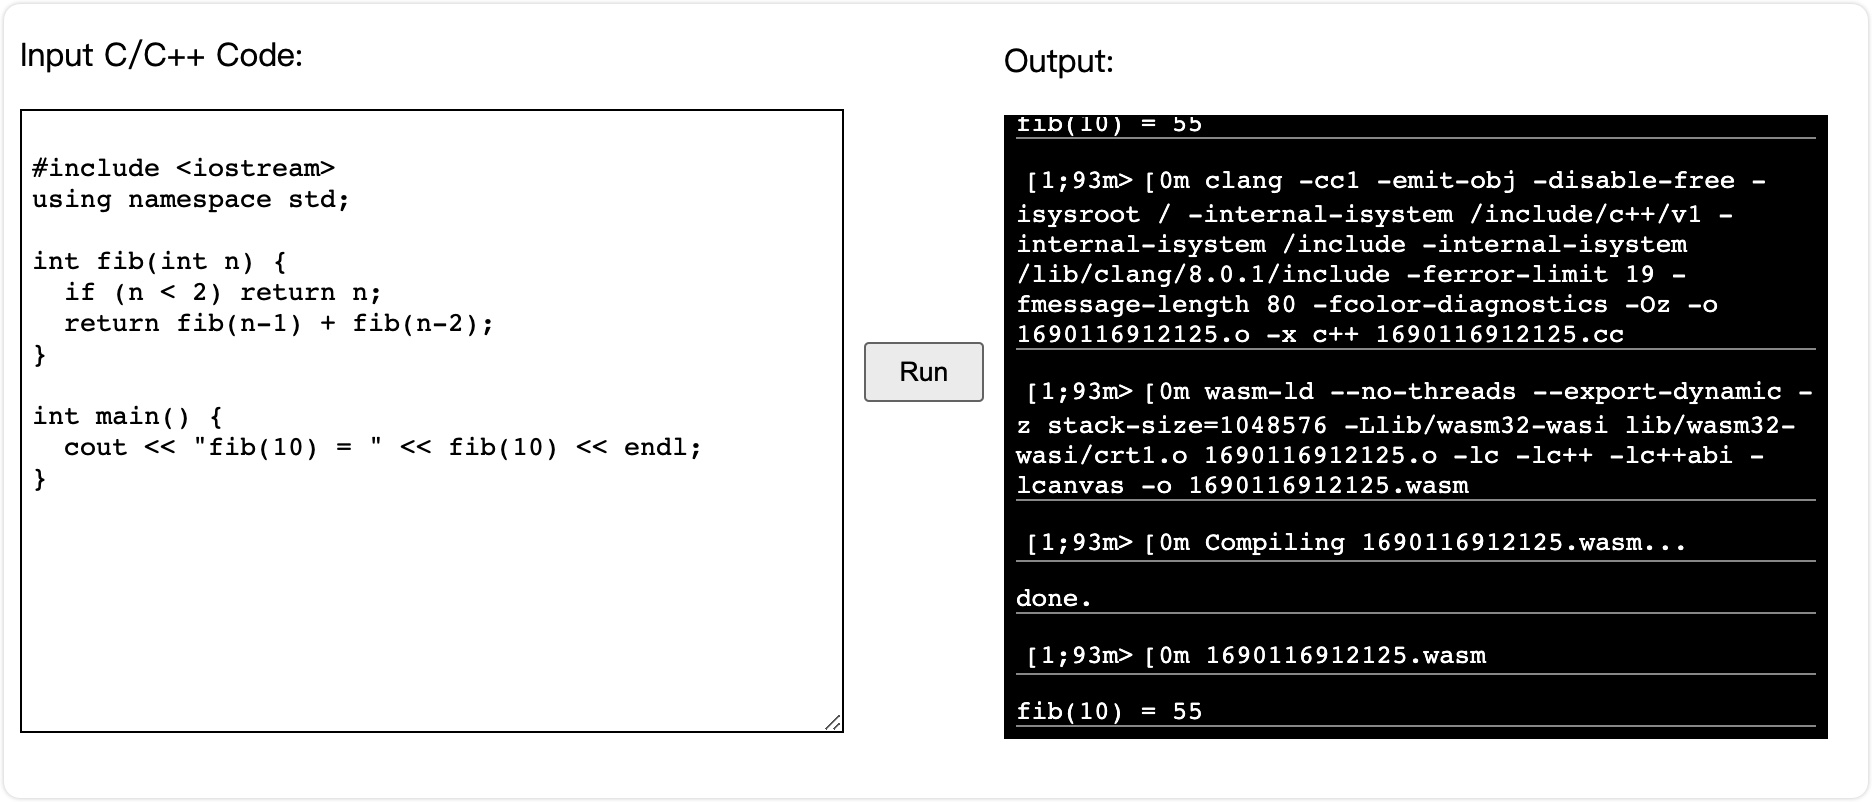
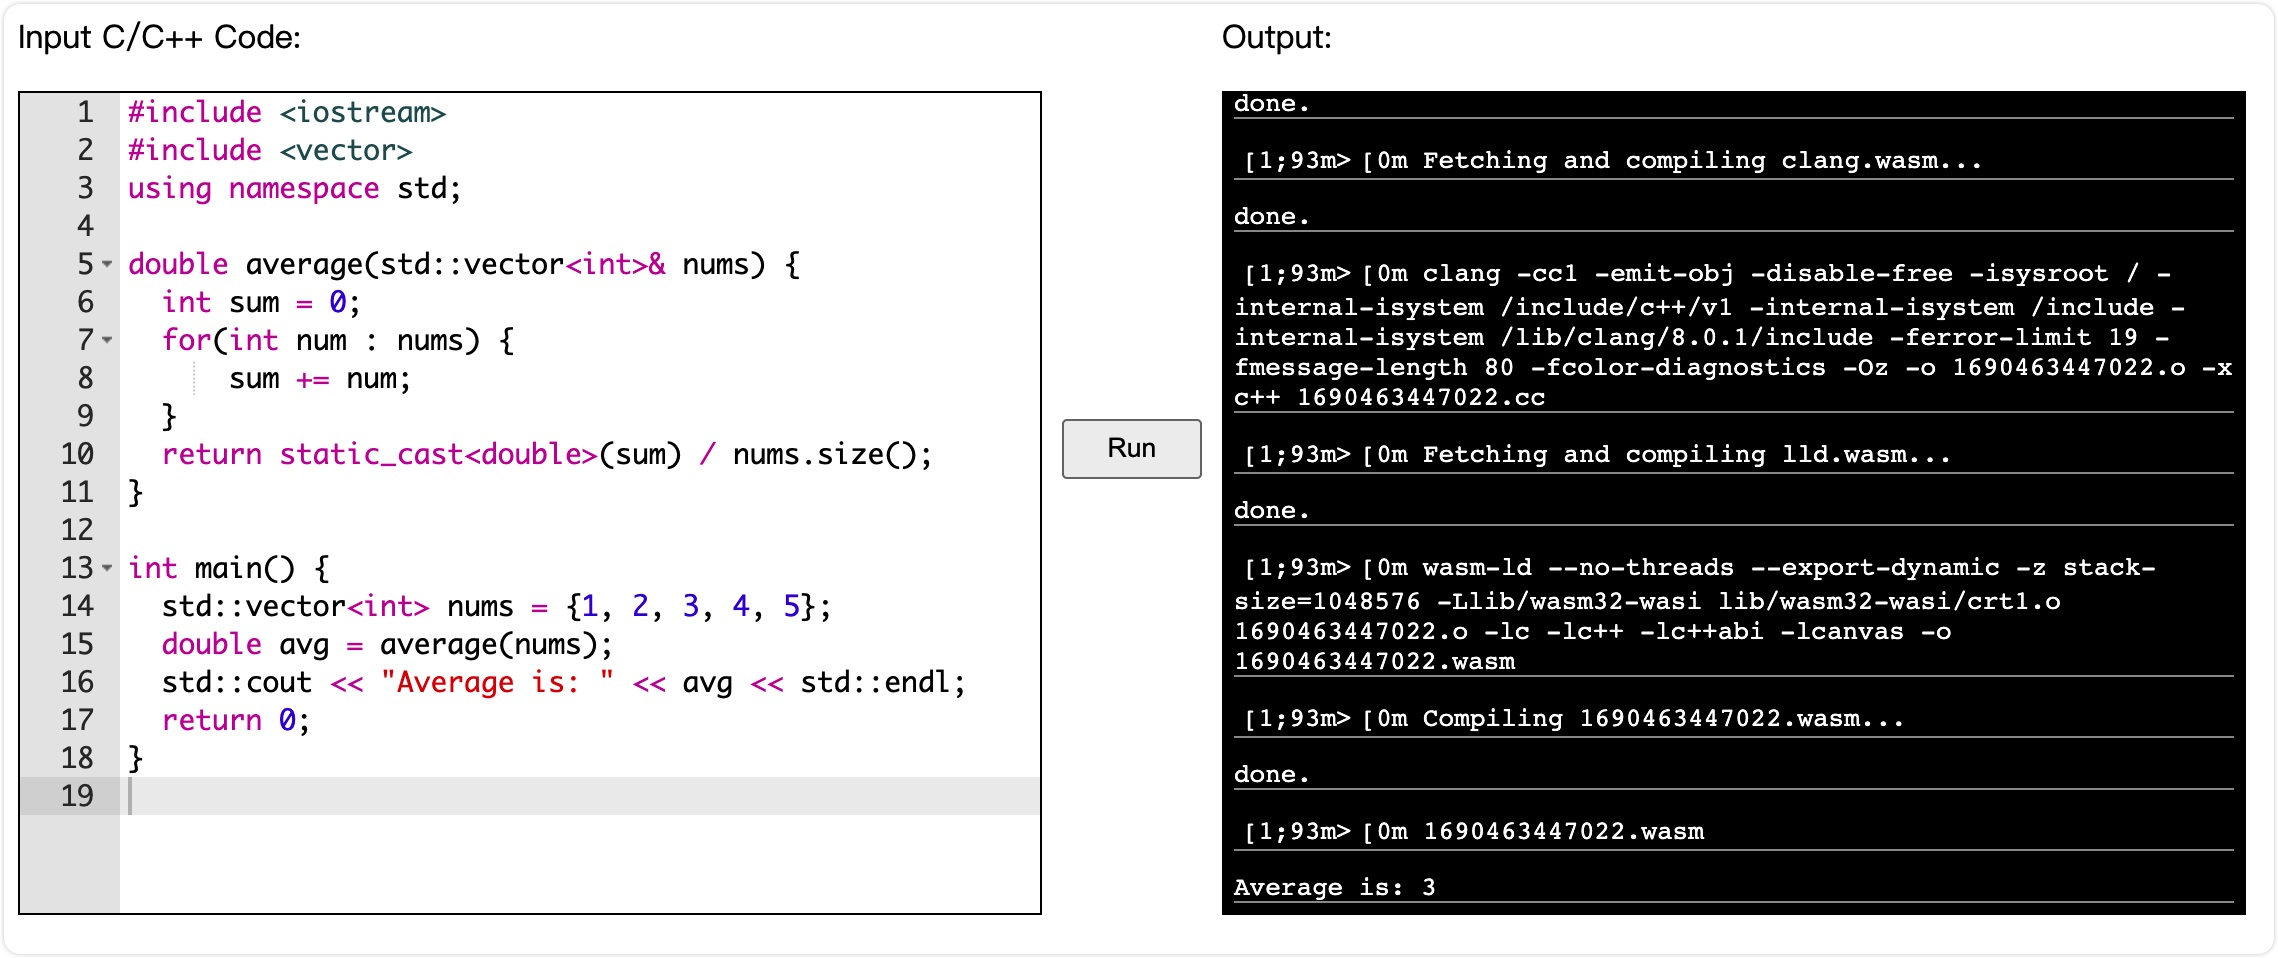
feat: add code editor

diff --git a/example/index.html b/example/index.html
@@ -13,9 +13,9 @@
       }
 
       #console,
-      #code {
-        width: 400px;
-        height: 300px;
+      #editor {
+        width: 500px;
+        height: 450px;
         border: 1px solid #000;
         padding: 5px;
         overflow: auto;
@@ -30,50 +30,52 @@
       }
 
       #run {
-        width: 60px;
+        width: 70px;
         height: 30px;
       }
     </style>
-  </head>
-  <body>
-    <div id="container">
-      <div>
-        <p>Input C/C++ Code:</p>
-        <textarea type="text" id="code"></textarea>
-      </div>
-      <button id="run">Run</button>
-      <div>
-        <p>Output:</p>
-        <div id="console"></div>
-      </div>
-    </div>
-
+    <link href="https://cdn.jsdelivr.net/npm/ace-builds@1.23.4/css/ace.min.css" rel="stylesheet" />
+    <script src="https://cdn.jsdelivr.net/npm/ace-builds@1.23.4/src-min-noconflict/ace.min.js"></script>
     <script type="module">
       import { init, run } from 'https://cdn.jsdelivr.net/npm/clang.js/+esm';
 
       const codeEl = document.getElementById('code');
+      const aceEditor = ace.edit('editor');
+      aceEditor.setTheme('ace/theme/xcode');
+      aceEditor.getSession().setMode('ace/mode/c_cpp');
+      aceEditor.setOptions({
+        fontSize: '14px',
+      });
+
       const buttonEl = document.getElementById('run');
       const consoleEl = document.getElementById('console');
 
       let isInitialed = false;
       let isRunning = false;
 
-      let code = `
-#include <iostream>
+      let code = `#include <iostream>
+#include <vector>
 using namespace std;
 
-int fib(int n) {
-  if (n < 2) return n;
-  return fib(n-1) + fib(n-2);
+double average(std::vector<int>& nums) {
+  int sum = 0;
+  for(int num : nums) {
+      sum += num;
+  }
+  return static_cast<double>(sum) / nums.size();
 }
 
 int main() {
-  cout << "fib(10) = " << fib(10) << endl;
-}`;
+  std::vector<int> nums = {1, 2, 3, 4, 5};
+  double avg = average(nums);
+  std::cout << "Average is: " << avg << std::endl;
+  return 0;
+}
+`;
 
-      codeEl.value = code;
-      codeEl.addEventListener('change', (e) => {
-        code = e.target.value;
+      aceEditor.setValue(code);
+      aceEditor.getSession().on('change', () => {
+        code = aceEditor.getSession().getValue();
       });
       buttonEl.addEventListener('click', async () => {
         if (isRunning) {
@@ -122,5 +124,18 @@ int main() {
         consoleEl.appendChild(el);
       };
     </script>
+  </head>
+  <body>
+    <div id="container">
+      <div>
+        <p>Input C/C++ Code:</p>
+        <div id="editor" class="editor"></div>
+      </div>
+      <button id="run">Run</button>
+      <div>
+        <p>Output:</p>
+        <div id="console"></div>
+      </div>
+    </div>
   </body>
 </html>
